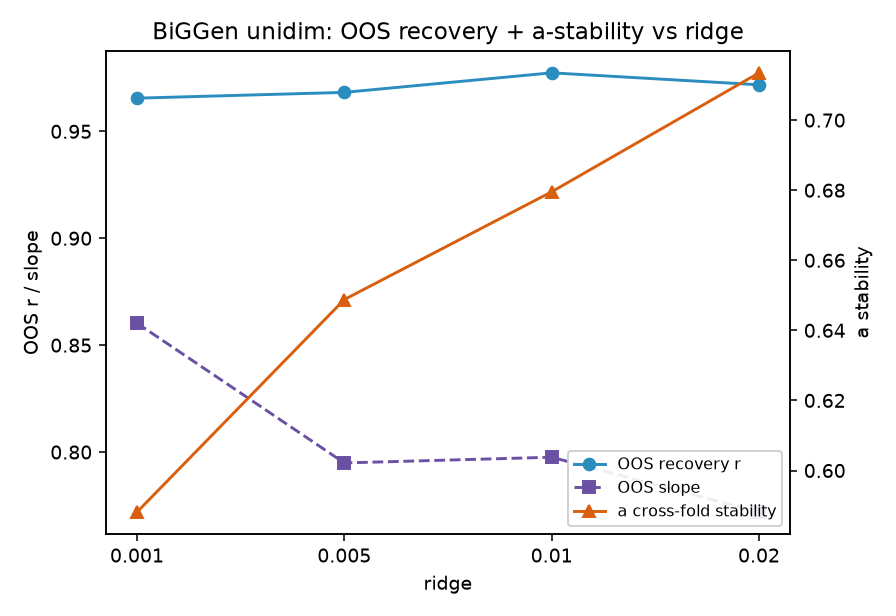
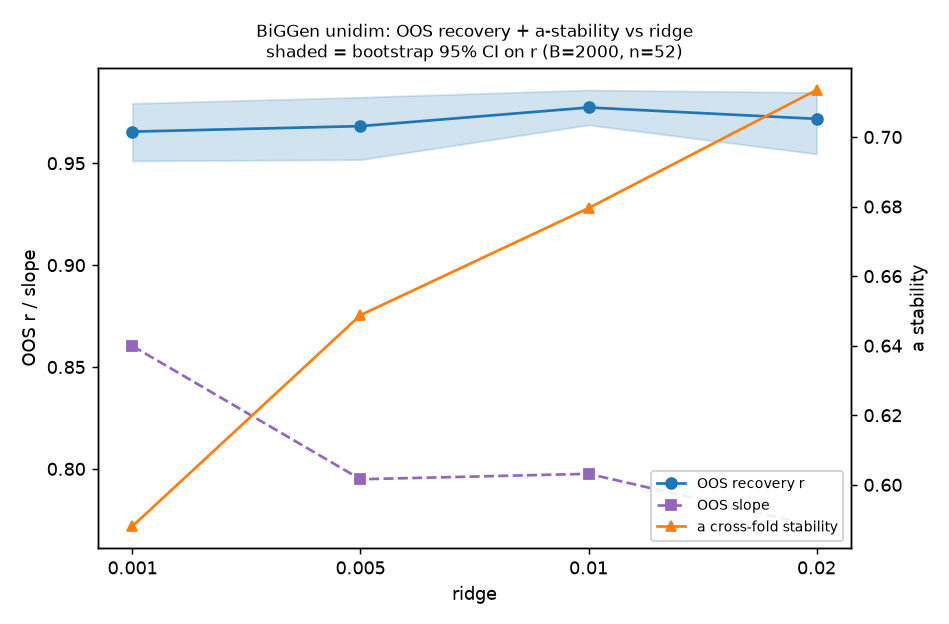
calibration fixes

diff --git a/eduLLM-Evals/biggen_calibration/README.md b/eduLLM-Evals/biggen_calibration/README.md
@@ -45,5 +45,7 @@ Caveat: at N=52 the r spread across SE 0.11-0.15 (~0.95-0.975) is within the ~+/
 | 09 | p-IRT predicted-vs-actual pass rate, **OOS** (k=5; TRAIN-fit params + held-out MWLE theta) | pass-rate MAE **0.047** [0.038,0.057] (LOO 0.045), theta-MAE **0.341** [0.265,0.433], r **0.973** [0.961,0.982], slope **1.127** [1.056,1.202] (bootstrap CIs, B=2000). _(in-sample, optimistic: MAE 0.032, theta-MAE 0.259, r=0.986, slope=0.999)_ | experiments/09_pirt_mae/figures/pirt_pred_vs_actual.png |
 | 10 | order/seed dependence (8 seeds) | across-seed theta SD mean **0.179** (~1.5x the SE target, 0.74x SE_total), max 1.50 -> short-test run-to-run variability is non-trivial; SE_total captures most of it | experiments/10_order_seed/figures/seed_spread_general.png |
 
+**Bootstrap 95% CI bands (B=2000, seed 0, resample 52 models)** overlay the recovery figures: the 05 three-panel `oos_recovery_general.png` (OLS fit + band + r/slope CIs per panel, matching the single scatter); the sweep r-lines `01_min_scenarios/recovery_r_slope_vs_min_scenarios.png`, `03_ridge/recovery_r_and_a_stability_vs_ridge.png`, `02_se_target/recovery_r_vs_se_target.png` (bands overlap across configs ~+/-0.02-0.03, reinforcing "preference call, not a clear optimum"); and `09_pirt_mae/pirt_pred_vs_actual.png` (bootstrap CI band around the OLS fit line; per-model pairs persisted to `09_pirt_mae/oos_per_model_pirt.csv`). Skipped: `06/oos_r_vs_floor_by_se.png` r-bands (per-cell OOS θ not persisted; would require re-running the full grid).
+
 Each `experiments/NN_*/results.csv` has the full per-config rows; `runs/` holds the raw per-config engine/kfold outputs.
 Estimator = MWLE (won here: OOS slope ~0.80 vs batch/online shrink lower). N=52 is below the MIRT identifiability floor — treat as provisional.
